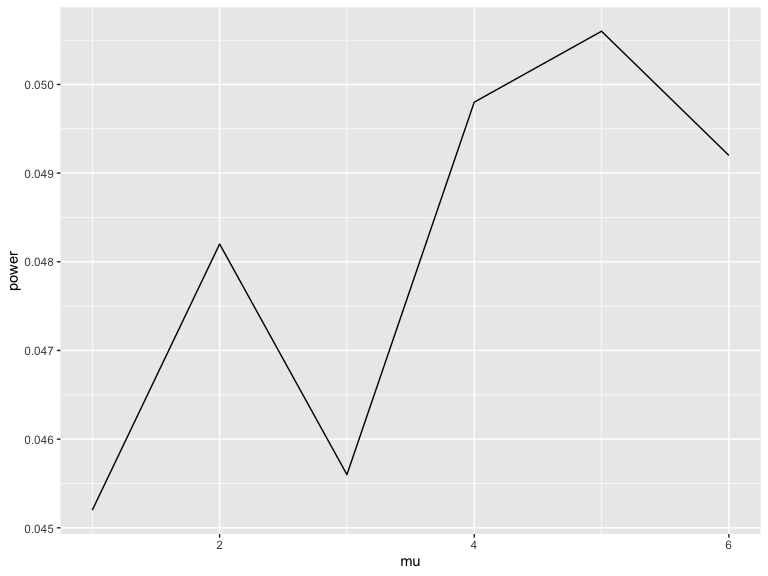
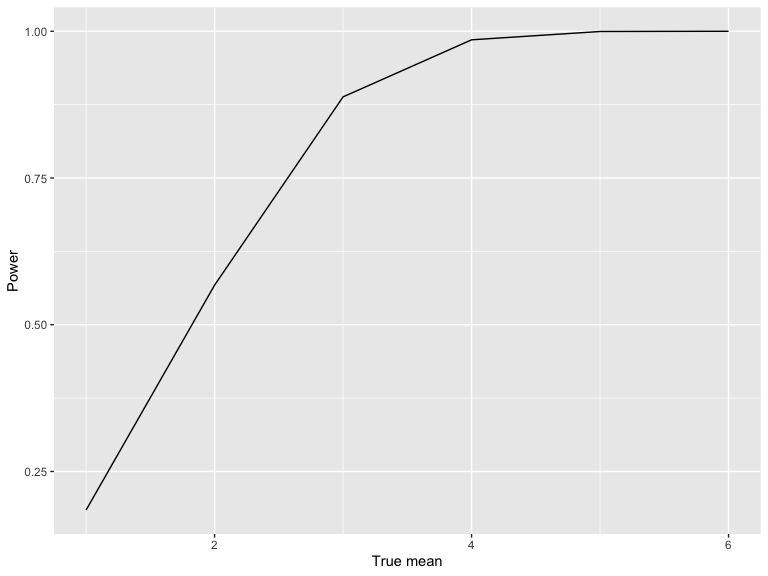
p3 done

diff --git a/p8105_hw5_zz3039.md b/p8105_hw5_zz3039.md
@@ -104,8 +104,8 @@ p3_sim = function(n, mu, sigma = 5) {
     x = rnorm(n, mean = mu, sd = sigma),
   )
 
-  t_test = 
-    t.test(sim_data$x, alternative = c("two.sided"), mu = mu) %>% 
+  t_test =
+    t.test(sim_data$x, alternative = "two.sided") %>% 
     broom::tidy()
   
   tibble(
@@ -125,19 +125,22 @@ sim_results
 ```
 
     ## # A tibble: 5,000 × 2
-    ##       mu_hat p_value
-    ##        <dbl>   <dbl>
-    ##  1 -0.293    0.749  
-    ##  2  0.000905 0.999  
-    ##  3  1.09     0.167  
-    ##  4  3.38     0.00144
-    ##  5  0.871    0.395  
-    ##  6  2.48     0.00149
-    ##  7 -0.511    0.522  
-    ##  8  0.498    0.596  
-    ##  9 -1.40     0.148  
-    ## 10  0.972    0.309  
+    ##     mu_hat p_value
+    ##      <dbl>   <dbl>
+    ##  1  0.912   0.319 
+    ##  2 -0.841   0.351 
+    ##  3 -0.528   0.596 
+    ##  4 -0.0825  0.926 
+    ##  5 -1.93    0.0857
+    ##  6 -0.593   0.482 
+    ##  7 -1.23    0.215 
+    ##  8 -0.492   0.608 
+    ##  9  0.0636  0.954 
+    ## 10  0.0559  0.953 
     ## # … with 4,990 more rows
+
+t_test = t.test(sim_data\$x, alternative = c(“two.sided”), mu = mu) %\>%
+broom::tidy()
 
 Repeated for different mus:
 
@@ -159,21 +162,19 @@ sim_results_mus
     ## # A tibble: 30,000 × 5
     ##    sample_size    mu  iter mu_hat p_value
     ##          <dbl> <dbl> <int>  <dbl>   <dbl>
-    ##  1          30     1     1  0.464  0.604 
-    ##  2          30     1     2 -0.834  0.0269
-    ##  3          30     1     3  0.265  0.472 
-    ##  4          30     1     4  1.22   0.825 
-    ##  5          30     1     5 -0.305  0.154 
-    ##  6          30     1     6 -0.854  0.0241
-    ##  7          30     1     7  2.46   0.0456
-    ##  8          30     1     8  1.14   0.891 
-    ##  9          30     1     9  0.326  0.411 
-    ## 10          30     1    10  2.44   0.0818
+    ##  1          30     1     1  1.66  0.0644 
+    ##  2          30     1     2  2.05  0.0105 
+    ##  3          30     1     3  0.477 0.659  
+    ##  4          30     1     4  2.10  0.0711 
+    ##  5          30     1     5  3.16  0.00103
+    ##  6          30     1     6  1.92  0.0474 
+    ##  7          30     1     7  1.30  0.205  
+    ##  8          30     1     8  1.88  0.00459
+    ##  9          30     1     9  2.31  0.0323 
+    ## 10          30     1    10  1.25  0.229  
     ## # … with 29,990 more rows
 
-Make a plot showing the proportion of times the null was rejected (the
-power of the test) on the y axis and the true value of mu on the x axis.
-Describe the association between effect size and power.
+Plot-power/mean
 
 ``` r
 sim_results_mus %>% 
@@ -182,13 +183,17 @@ sim_results_mus %>%
     power = sum(p_value < 0.05)/5000
   ) %>% 
   ggplot(aes(x = mu, y = power)) +
-  geom_line()
+  geom_line() +
+  labs(
+    x = "True mean",
+    y = "Power"
+  )
 ```
 
 <img src="p8105_hw5_zz3039_files/figure-gfm/unnamed-chunk-8-1.png" width="90%" />
+The power of the test increases as the simulation size increases.
 
-Make a plot showing the average estimate of mu on the y axis and the
-true value of mu on the x axis.
+Plot-estimated/true
 
 ``` r
 sim_results_mus %>% 
@@ -198,7 +203,33 @@ sim_results_mus %>%
   ) %>% 
   ggplot(aes(x = mu, y = mu_est)) +
   geom_point() +
-  geom_line()
+  geom_line() +
+  labs(
+    title = "All Simulations",
+    x = "True mean",
+    y = "Estimated mean"
+  )
 ```
 
 <img src="p8105_hw5_zz3039_files/figure-gfm/unnamed-chunk-9-1.png" width="90%" />
+
+``` r
+sim_results_mus %>% 
+  filter(p_value < 0.05) %>% 
+  group_by(mu) %>% 
+  summarize(
+    mu_est = mean(mu_hat)
+  )%>% 
+  ggplot(aes(x = mu, y = mu_est)) +
+  geom_point() +
+  geom_line() +
+  labs(
+    title = "Simulations with Null Rejected",
+    x = "True mean",
+    y = "Estimated mean"
+  )
+```
+
+<img src="p8105_hw5_zz3039_files/figure-gfm/unnamed-chunk-9-2.png" width="90%" />
+Is the sample average of mu across tests for which the null is rejected
+approximately equal to the true value of mu? Why or why not?
